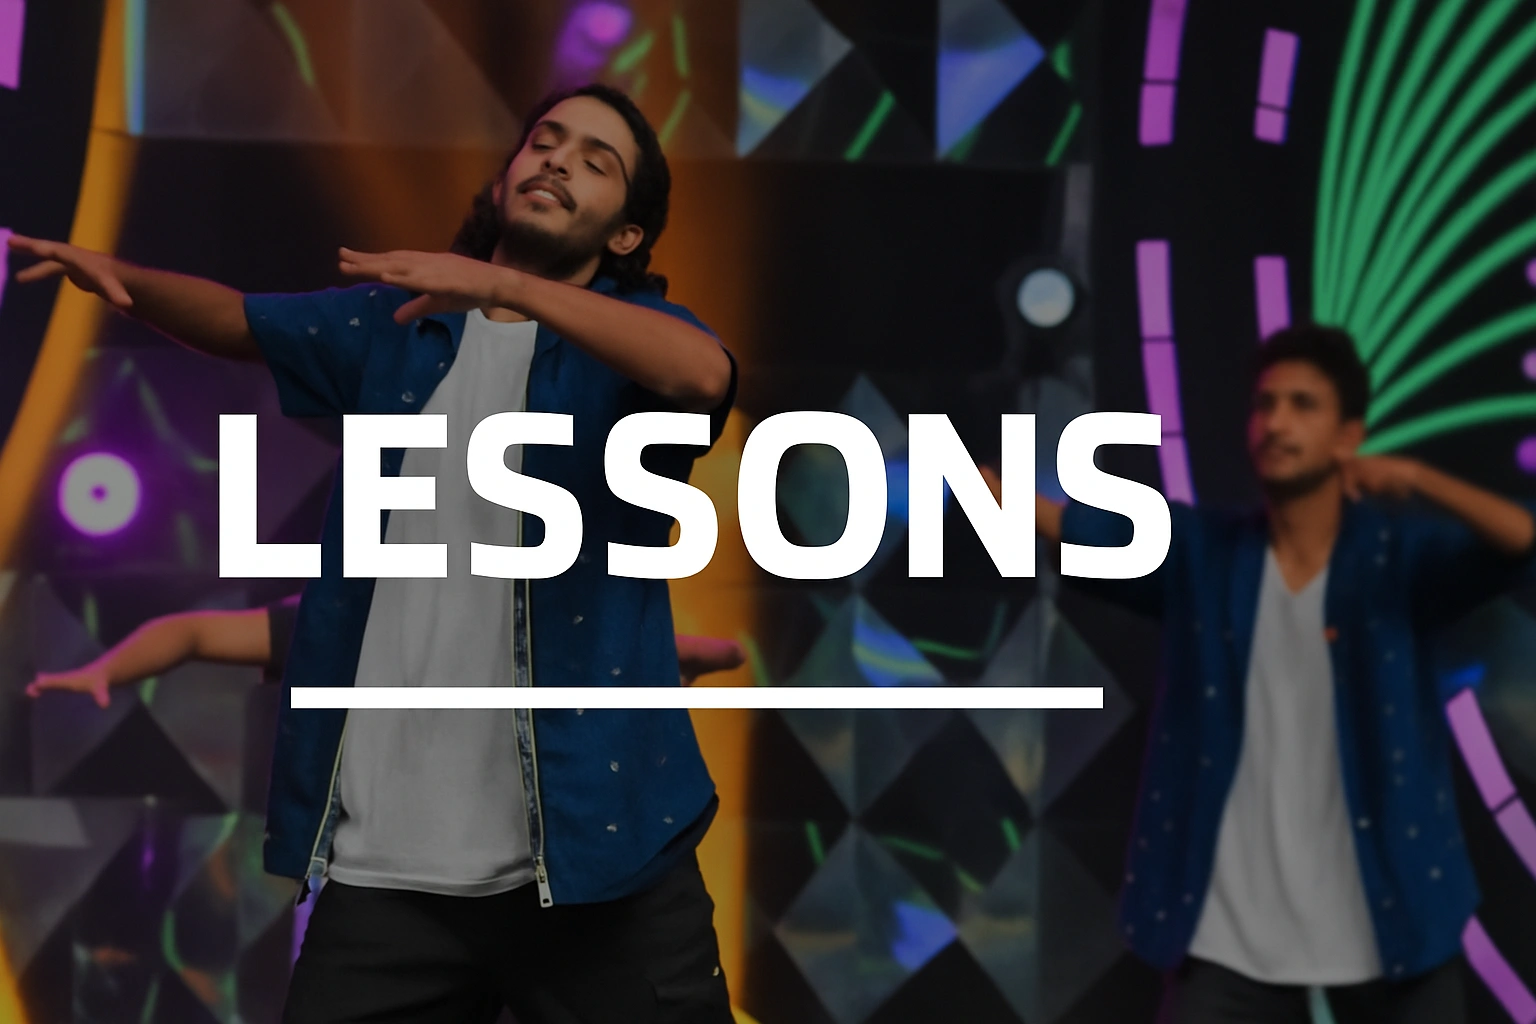
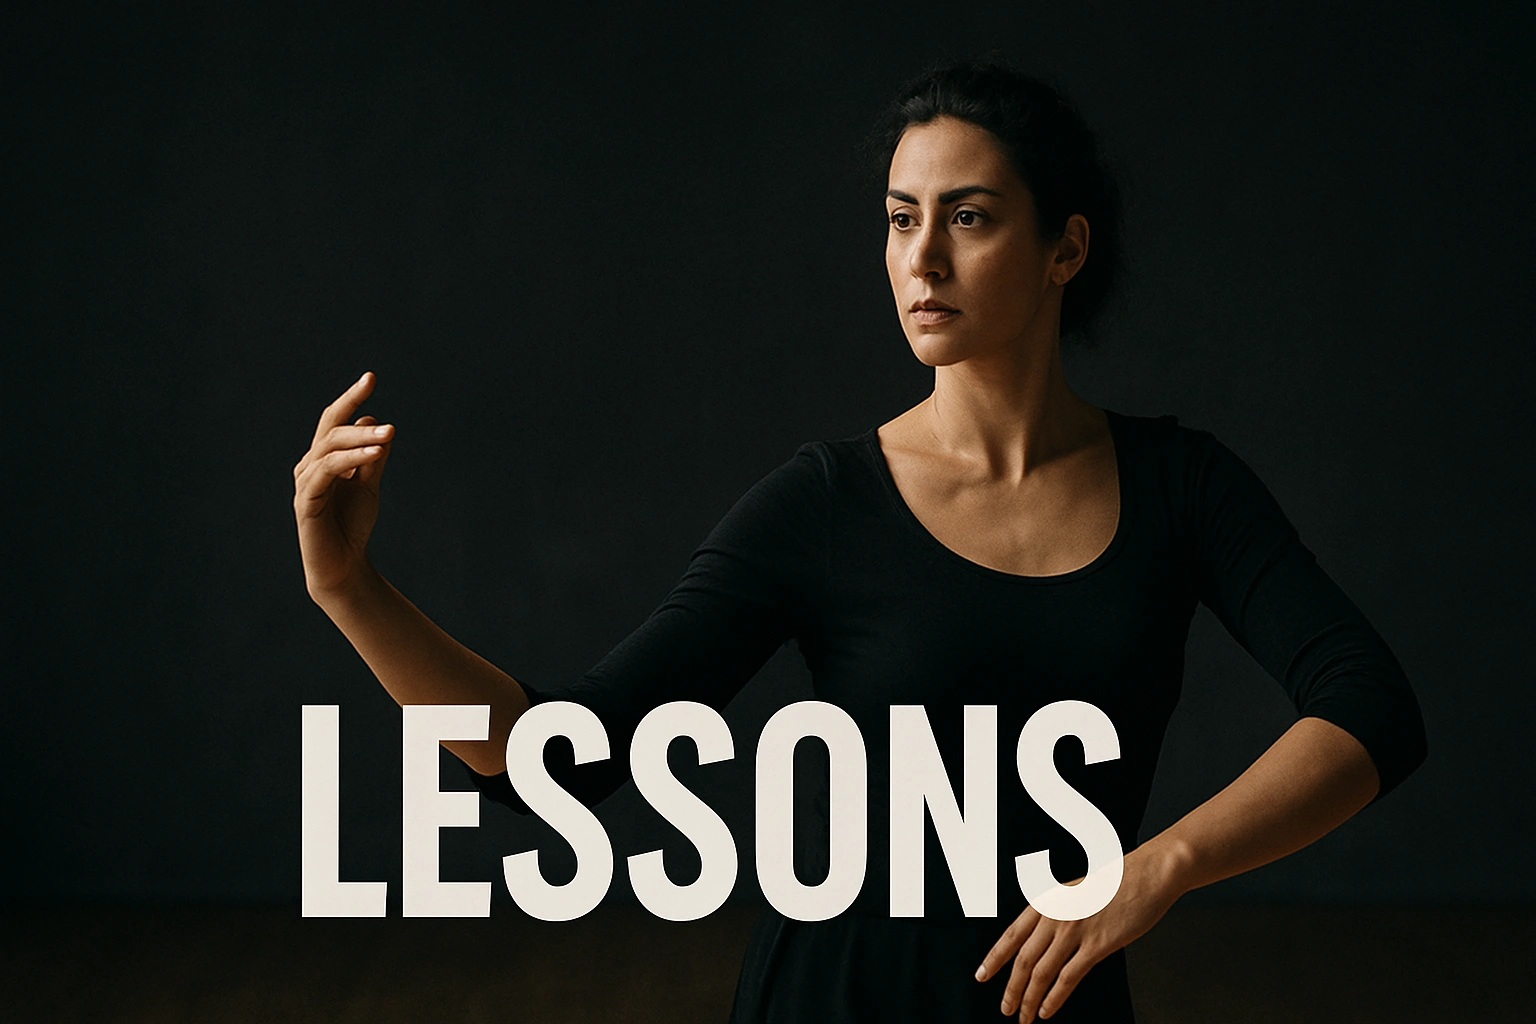
Home Page Changes

diff --git a/src/pages/HomePage.jsx b/src/pages/HomePage.jsx
@@ -1,15 +1,10 @@
 import React, { useEffect, useRef, useState } from 'react';
 import heroVideoMp4 from '../assets/videos/home.mp4';
 import heroVideoWebm from '../assets/videos/Home.webm';
-import { logo, classesandevents, merch, //productionsWebm,
- productionsMp4, headlogo, bg, lession, productions } from '../utils/config';
-
-// Import NavBar component
+import { logo, classesandevents, merch, headlogo, bg, lession, productions } from '../utils/config';
 import NavBar from '../components/NavBar';
 
-// React Router hooks
 import { useNavigate, useLocation } from 'react-router-dom';
-
 // Font Awesome icons
 import { FontAwesomeIcon } from '@fortawesome/react-fontawesome';
 import { faWhatsapp } from '@fortawesome/free-brands-svg-icons';
@@ -69,7 +64,7 @@ const HomePage = ({ setActivePage }) => {
           backgroundImage: `url(${bg})`,
           backgroundSize: 'cover',
           backgroundPosition: 'center',
-          backgroundAttachment: 'fixed', // Keeps background fixed while content scrolls
+          backgroundAttachment: 'fixed',
           backgroundColor: 'rgba(0, 0, 0, 0.7)',
           backgroundBlendMode: 'multiply'
         }}
@@ -106,18 +101,11 @@ const HomePage = ({ setActivePage }) => {
               onClick={navigateToProductionsPage}
               className="relative w-full cursor-pointer overflow-hidden rounded-lg shadow-xl hover:scale-105 transition-transform duration-300"
             >
-              <video
-                autoPlay
-                loop
-                muted
-                playsInline
-                title="Productions"
-                poster={productions}
-              >
-                {/* MP4 as a fallback for broader compatibility */}
-                <source src={productionsMp4} type="video/mp4" />
-                Your browser does not support the video tag.
-              </video>
+              <img
+                src={productions}
+                alt="An image representing dance classes"
+                className="w-full h-auto"
+              />
               <div className="absolute inset-0 hover:bg-opacity-0 transition-opacity duration-300"></div>
             </div>
           </section>
@@ -141,10 +129,20 @@ const HomePage = ({ setActivePage }) => {
           </section>
         </div>
 
+        {/* Spacer for theme */}
+        < section ref={aboutUsRef} className="p-8 w-full bg-black flex flex-col items-center" >
+          <h2 className="text-4xl md:text-4xl font-bold text-white" style={{ fontFamily: "'Bebas Neue'", letterSpacing: '0.1em', color: '#EFD09E' }}>
+            We Bring ART to
+          </h2>
+          <h1 className="text-4xl md:text-6xl font-bold text-white" style={{ fontFamily: "'Bebas Kai'", letterSpacing: '0.1em', color: '#EFD09E' }}>
+            NEXT LEVEL
+          </h1>
+        </section >
+
         {/* Merch & Lessons Section - Flex container for side-by-side layout */}
-        <div className="flex flex-col md:flex-row gap-4 w-screen mx-auto py-1">
+        < div className="flex flex-col md:flex-row gap-4 w-screen mx-auto py-1" >
           {/* Merch Section */}
-          <section
+          < section
             id="merch-section"
             className="w-full md:w-1/2 bg-transparent flex flex-col items-center"
           >
@@ -159,10 +157,10 @@ const HomePage = ({ setActivePage }) => {
               />
               <div className="absolute inset-0 hover:bg-opacity-0 transition-opacity duration-300"></div>
             </div>
-          </section>
+          </section >
 
           {/* Lessons Section */}
-          <section
+          < section
             id="lession-section"
             className="w-full md:w-1/2 bg-transparent flex flex-col items-center"
           >
@@ -177,11 +175,11 @@ const HomePage = ({ setActivePage }) => {
               />
               <div className="absolute inset-0 hover:bg-opacity-0 transition-opacity duration-300"></div>
             </div>
-          </section>
-        </div>
+          </section >
+        </div >
 
         {/* About Us Section */}
-        <section ref={aboutUsRef} className="p-8 w-full bg-gray-100 flex flex-col items-center">
+        < section ref={aboutUsRef} className="p-8 w-full bg-gray-100 flex flex-col items-center" >
           <div className="flex flex-col md:flex-row items-center">
             {/* Placeholder for the image */}
             <div className="w-full md:w-1/4 p-4">
@@ -193,11 +191,11 @@ const HomePage = ({ setActivePage }) => {
             </div>
             {/* The paragraph on the right side */}
             <div className="w-full md:w-3/4">
-              <h2 className="p-4 text-4xl md:text-4xl font-bold text-gray-800 text-center" style={{ fontFamily: "'MetroPhotograph - Demo Version Regular'", letterSpacing: '0.1em', color: '#272727' }}>
+              <h2 className="p-4 text-4xl md:text-4xl font-bold text-gray-800" style={{ fontFamily: "'MetroPhotograph - Demo Version Regular'", letterSpacing: '0.1em', color: '#272727' }}>
                 About Us
               </h2>
               <p
-                className="font-sans text-base md:text-lg text-gray-600 text-justify"
+                className="font-sans text-base md:text-lg text-gray-600 text-justify p-6"
               >
                 Studio Dance Core is a vibrant hub for artistic expression located in the heart of Sri Lanka. We are passionate about creating unique, high-quality video content that showcases our innovative ideas and talent. Our professional dance classes are specifically tailored for young Sri Lankan students and teenagers, providing a nurturing environment where they can develop their skills and creativity. Beyond the studio, we are dedicated to producing meaningful and enjoyable projects for our audience.
               </p>
@@ -241,9 +239,9 @@ const HomePage = ({ setActivePage }) => {
               </div>
             </div>
           </div>
-        </section>
-      </main>
-    </div>
+        </section >
+      </main >
+    </div >
   );
 };
 

diff --git a/src/utils/config.js b/src/utils/config.js
@@ -2,8 +2,6 @@ export { default as logo } from '../assets/images/logo.webp';
 export { default as classesandevents } from '../assets/images/classes-and-events.webp';
 export { default as merch } from '../assets/images/merchs.webp';
 export { default as bg } from '../assets/images/bg.webp';
-export { default as productions } from '../assets/images/manoloka-description-01.webp';
-//export { default as productionsWebm } from '../assets/videos/manoloka.WEBM';
-export { default as productionsMp4 } from '../assets/videos/manoloka.mp4';
+export { default as productions } from '../assets/images/productions.webp';
 export { default as headlogo } from '../assets/images/headlogo.webp';
 export { default as lession } from '../assets/images/lessons.webp';
